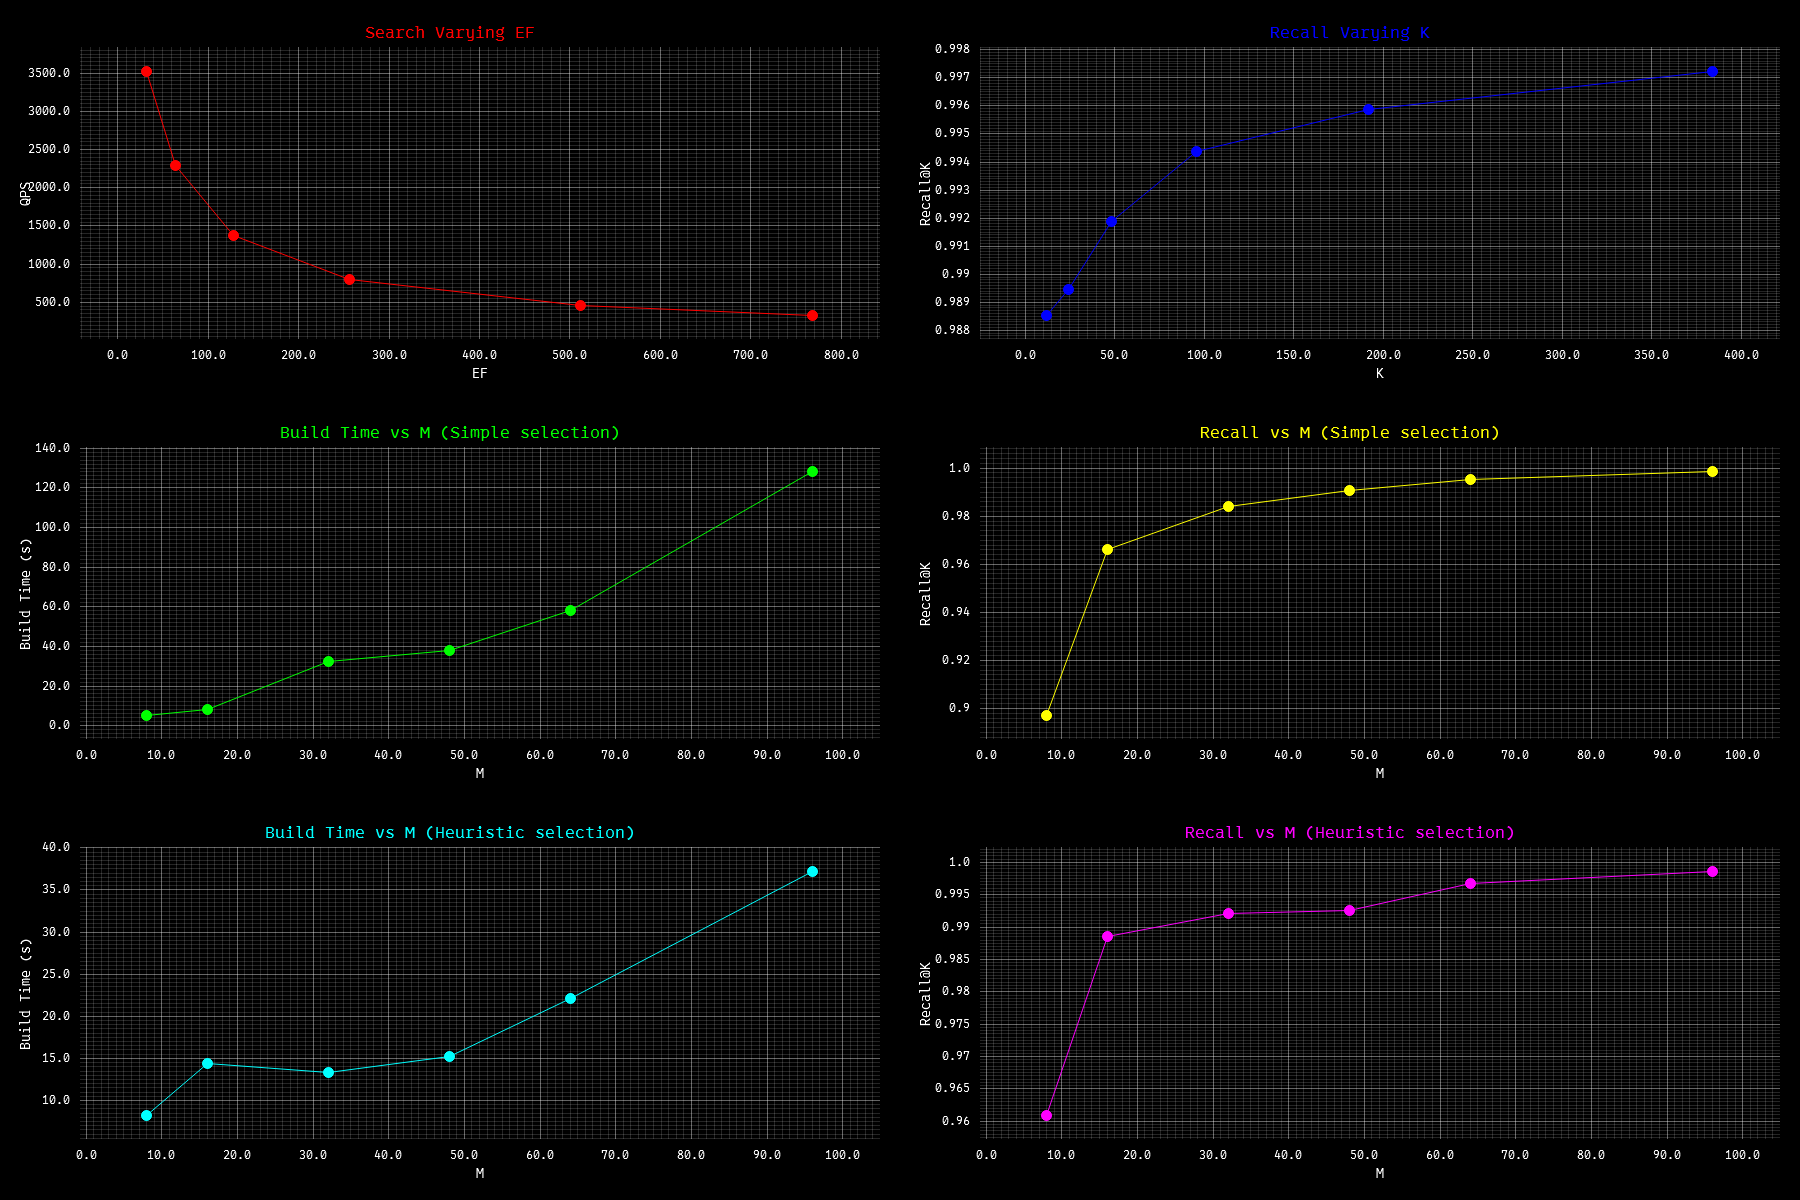
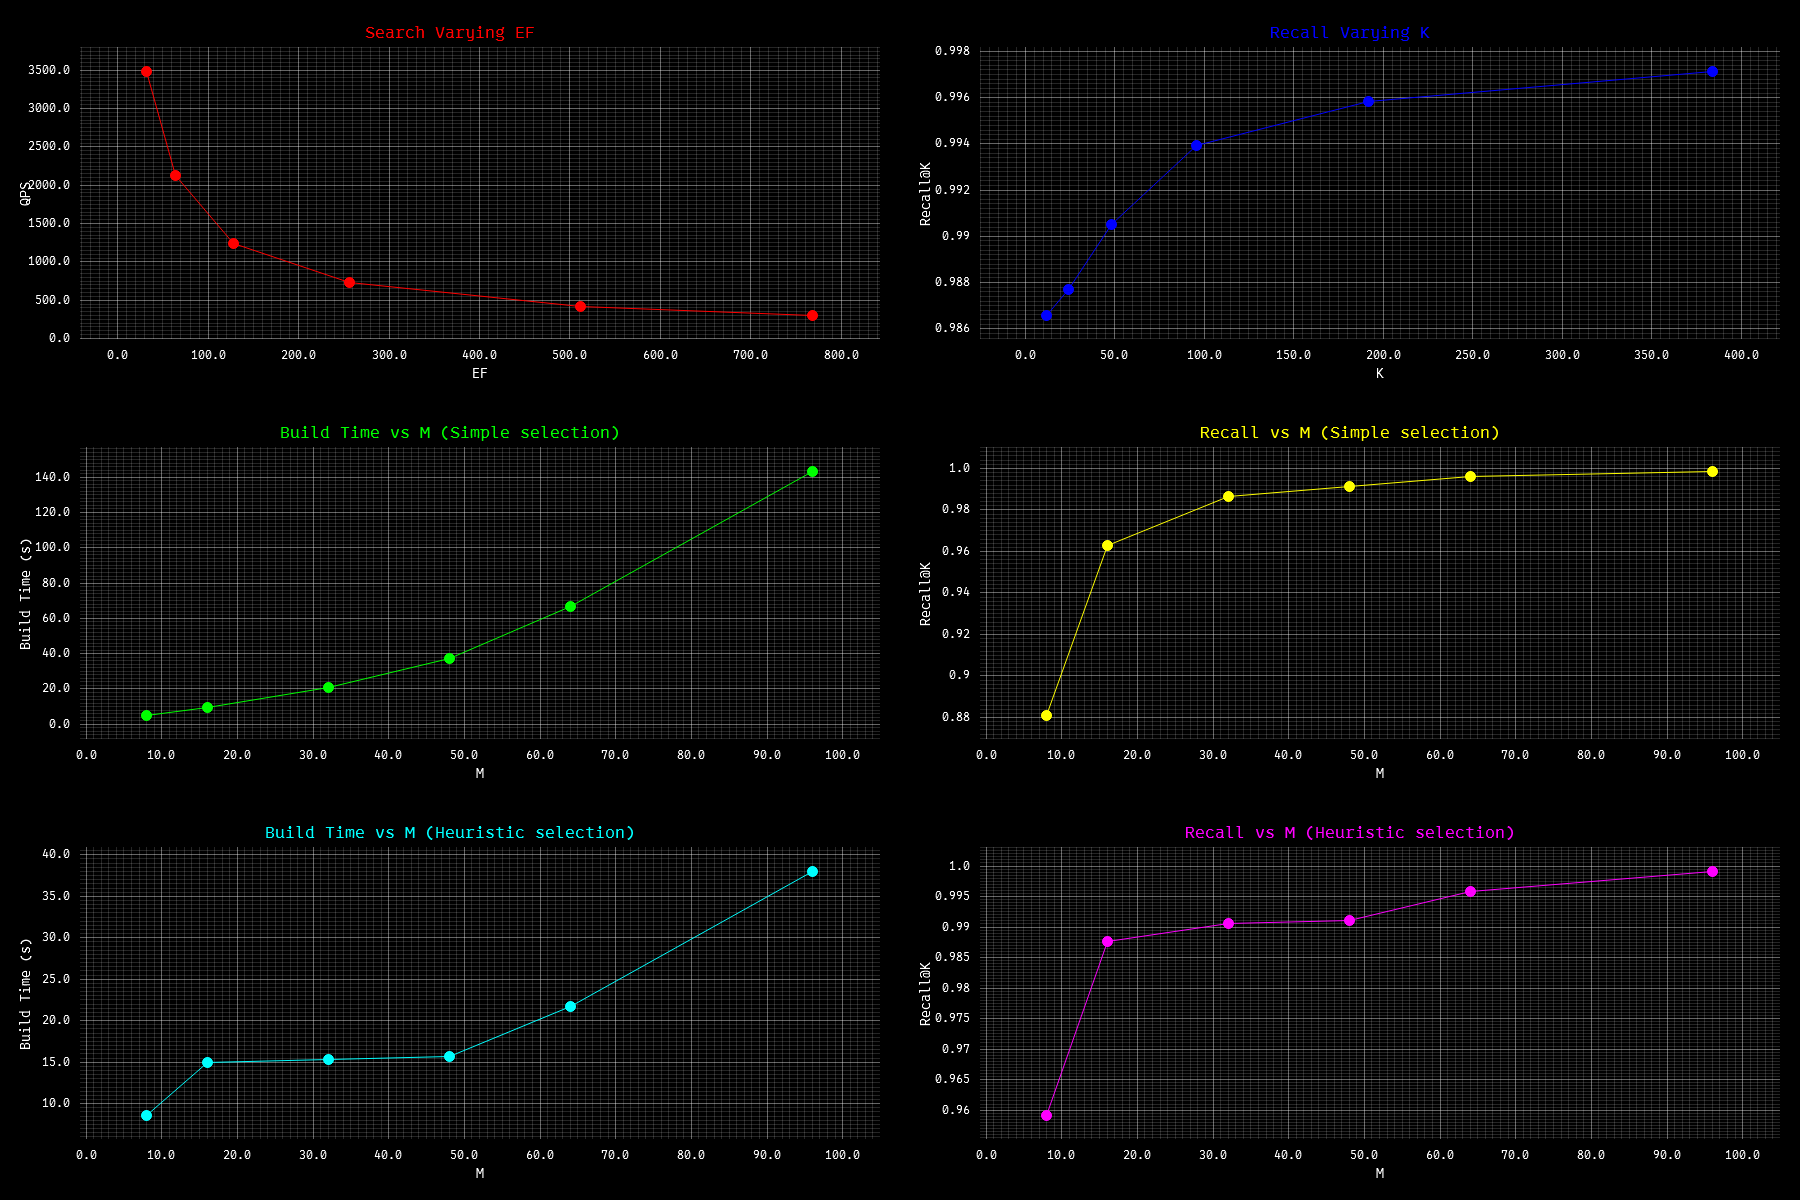
chore; run/update benchmark

diff --git a/bench/bench.rs b/bench/bench.rs
@@ -10,6 +10,7 @@ use std::path::PathBuf;
 use std::time::Instant;
 
 // TODO: Something wrong, this is way beyond slow, need to figure out later
+// TODO: Quant BENCH Harness
 
 const DATASET_CACHE: &str = "./bench/bench_data.bin";
 const INDEX_CACHE: &str = "./bench/bench_index.bin";
@@ -31,13 +32,13 @@ struct BenchmarkResult {
 fn main() -> Result<()> {
     let args: Vec<String> = std::env::args().collect();
 
-    let path = args
+    let path: String = args
         .get(1)
-        .expect("Usage: bench <input_parquet_dir> [num_files]")
-        .to_owned();
+        .expect("Usage: bencher <input_parquet_dir> [num_files]")
+        .parse()?;
     let num: usize = args
         .get(2)
-        .expect("Usage: bench <input_parquet_dir> [num_files]")
+        .expect("Usage: bencher <input_parquet_dir> [num_files]")
         .parse()?;
 
     if !PathBuf::from(DATASET_CACHE).exists() {

diff --git a/README.md b/README.md
@@ -13,7 +13,7 @@ Make sure to have cargo & this [dataset](https://huggingface.co/datasets/KShiven
 change [build config](.cargo/config.toml).
 
 ```shell
-cargo bench --bench bencher  -- ../../datasets/dim1536_size1M 4
+cargo bench --bench bencher  -- ../../datasets/dim1536_size1M 4 # takes around 10+ mins
                               <path to dataset> <num of files to read>
 ```
 
@@ -27,41 +27,42 @@ Benched on I7 14650hx (rust 1.97.1, target: x86_64-pc-windows-msvc)
 ```shell
 # Alg. 3 (simple, paper default): max_n: 16, ef_const: 96, max_l: 18, metrics: cosine
 Total vectors: 153848, dimension: 1536
-Index built in 141.5677818s with 1091 insert/s
-Search with ef: 32 took, QPS: 3523.23
-Search with ef: 64 took, QPS: 2285.94
-Search with ef: 128 took, QPS: 1375.67
-Search with ef: 256 took, QPS: 796.74
-Search with ef: 512 took, QPS: 454.85
-Search with ef: 768 took, QPS: 325.76
+Index built in 146.9779942s with 1053 insert/s
 
-Recall@12: 0.9885, Time: 30.7171
-Recall@24: 0.9895, Time: 31.863916
-Recall@48: 0.9919, Time: 32.321754
-Recall@96: 0.9944, Time: 33.90104
-Recall@192: 0.9959, Time: 35.229668
-Recall@384: 0.9972, Time: 38.83932
+Search with ef: 32 took, QPS: 3485.94
+Search with ef: 64 took, QPS: 2127.37
+Search with ef: 128 took, QPS: 1242.32
+Search with ef: 256 took, QPS: 724.93
+Search with ef: 512 took, QPS: 417.44
+Search with ef: 768 took, QPS: 298.97
+
+Recall@12: 0.9866, Time: 31.75659
+Recall@24: 0.9877, Time: 32.119545
+Recall@48: 0.9905, Time: 32.417294
+Recall@96: 0.9939, Time: 33.47838
+Recall@192: 0.9958, Time: 34.67813
+Recall@384: 0.9971, Time: 37.336834
 
 Simple selection
-M: 8, Build Time: 5.0802s, Recall@32: 0.8971
-M: 16, Build Time: 8.3450s, Recall@32: 0.9661
-M: 32, Build Time: 32.6053s, Recall@32: 0.9840
-M: 48, Build Time: 37.9332s, Recall@32: 0.9907
-M: 64, Build Time: 58.1063s, Recall@32: 0.9954
-M: 96, Build Time: 128.2895s, Recall@32: 0.9987
+M: 8, Build Time: 4.9248s, Recall@32: 0.8809
+M: 16, Build Time: 9.3076s, Recall@32: 0.9627
+M: 32, Build Time: 20.9360s, Recall@32: 0.9866
+M: 48, Build Time: 37.4348s, Recall@32: 0.9914
+M: 64, Build Time: 66.7094s, Recall@32: 0.9962
+M: 96, Build Time: 143.2905s, Recall@32: 0.9986
 
 # same config varying M (Alg. 3), sample_size: 32540
 # Note: ef_const IS scales with M (ef_const = max(96, 2*M)) during this run
 Heuristic selection
-M: 8, Build Time: 8.2072s, Recall@32: 0.9609
-M: 16, Build Time: 14.4271s, Recall@32: 0.9886
-M: 32, Build Time: 13.3286s, Recall@32: 0.9921
-M: 48, Build Time: 15.2372s, Recall@32: 0.9926
-M: 64, Build Time: 22.1368s, Recall@32: 0.9968
-M: 96, Build Time: 37.2041s, Recall@32: 0.9986
+M: 8, Build Time: 8.5594s, Recall@32: 0.9591
+M: 16, Build Time: 14.9602s, Recall@32: 0.9876
+M: 32, Build Time: 15.3445s, Recall@32: 0.9906
+M: 48, Build Time: 15.7295s, Recall@32: 0.9911
+M: 64, Build Time: 21.7596s, Recall@32: 0.9958
+M: 96, Build Time: 38.0011s, Recall@32: 0.9991
 ```
 
-> Last updated: 7/26/2026
+> Last updated: 08/03/2026
 
 **some observations**
 on [commit](https://github.com/ronakgh97/hnsw-rs/commit/57aa9fd42877c267e22645d7821c1f671ed76896)
